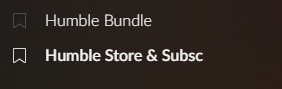
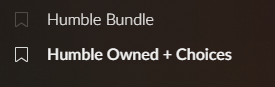
Readme Updates

diff --git a/README.md b/README.md
@@ -82,9 +82,9 @@ Contains:
 
 ### Can I group my Humble games and Choice games altogether?
 
-You have to create a new filtered HUble Bungle bookmark, proceeding as follows:
+You have to create a new filtered Humble Bundle bookmark, proceeding as follows:
 
-1. Click on the defauit _Humble Bundle_ bookmark: you see only the owned games in this view, and your goals is to have a similar view that list both owned and subscritptions games.
+1. Click on the defauit _Humble Bundle_ bookmark: you see only the owned games in this view, and your goals is to have a similar view that lists both owned and subscritptions games.
 
 2. Change the view filter selecting the funnel icon, then the Status menu -> and then flagging both _Owned_ and _Subcriptions_
 
@@ -94,15 +94,13 @@ You have to create a new filtered HUble Bungle bookmark, proceeding as follows:
 
 ![Humble bookmarked](resources/Bookmarking.png)
 
-3. The view that you just created will show in the bookmark list as an _Humble Bundle_ duplicate, so you want to rename it. To do so click with right mouse button on the new bookmark itself and select _Rename bookmark_ changing name with something you like as for example _Humble Store & Subsc_.
+3. The view that you've just created will show in the bookmark list as an _Humble Bundle_ duplicate, so you want to rename it. To do so click with right mouse button on the new bookmark itself and select _Rename bookmark_ changing name with something you like as for example _Humble Owned + Choices_.
 
 ![Humble Rename Bookmark](resources/Bookmark_rename.png)
 
 4. Now when you select the new bookmark you can view (and search!) both owned and subscription Humble Bundle games.
 
   ![Hmmble Store and Subsc](resources/Bookmark_renamed.png)
-
-Tip: you can also create an _All games_ bookmark in a similar way to include also subscriptions games as they were owned games.
 
 ## Bug Reporting
 This integrations uses sentry.io to report anonymous error reports.
